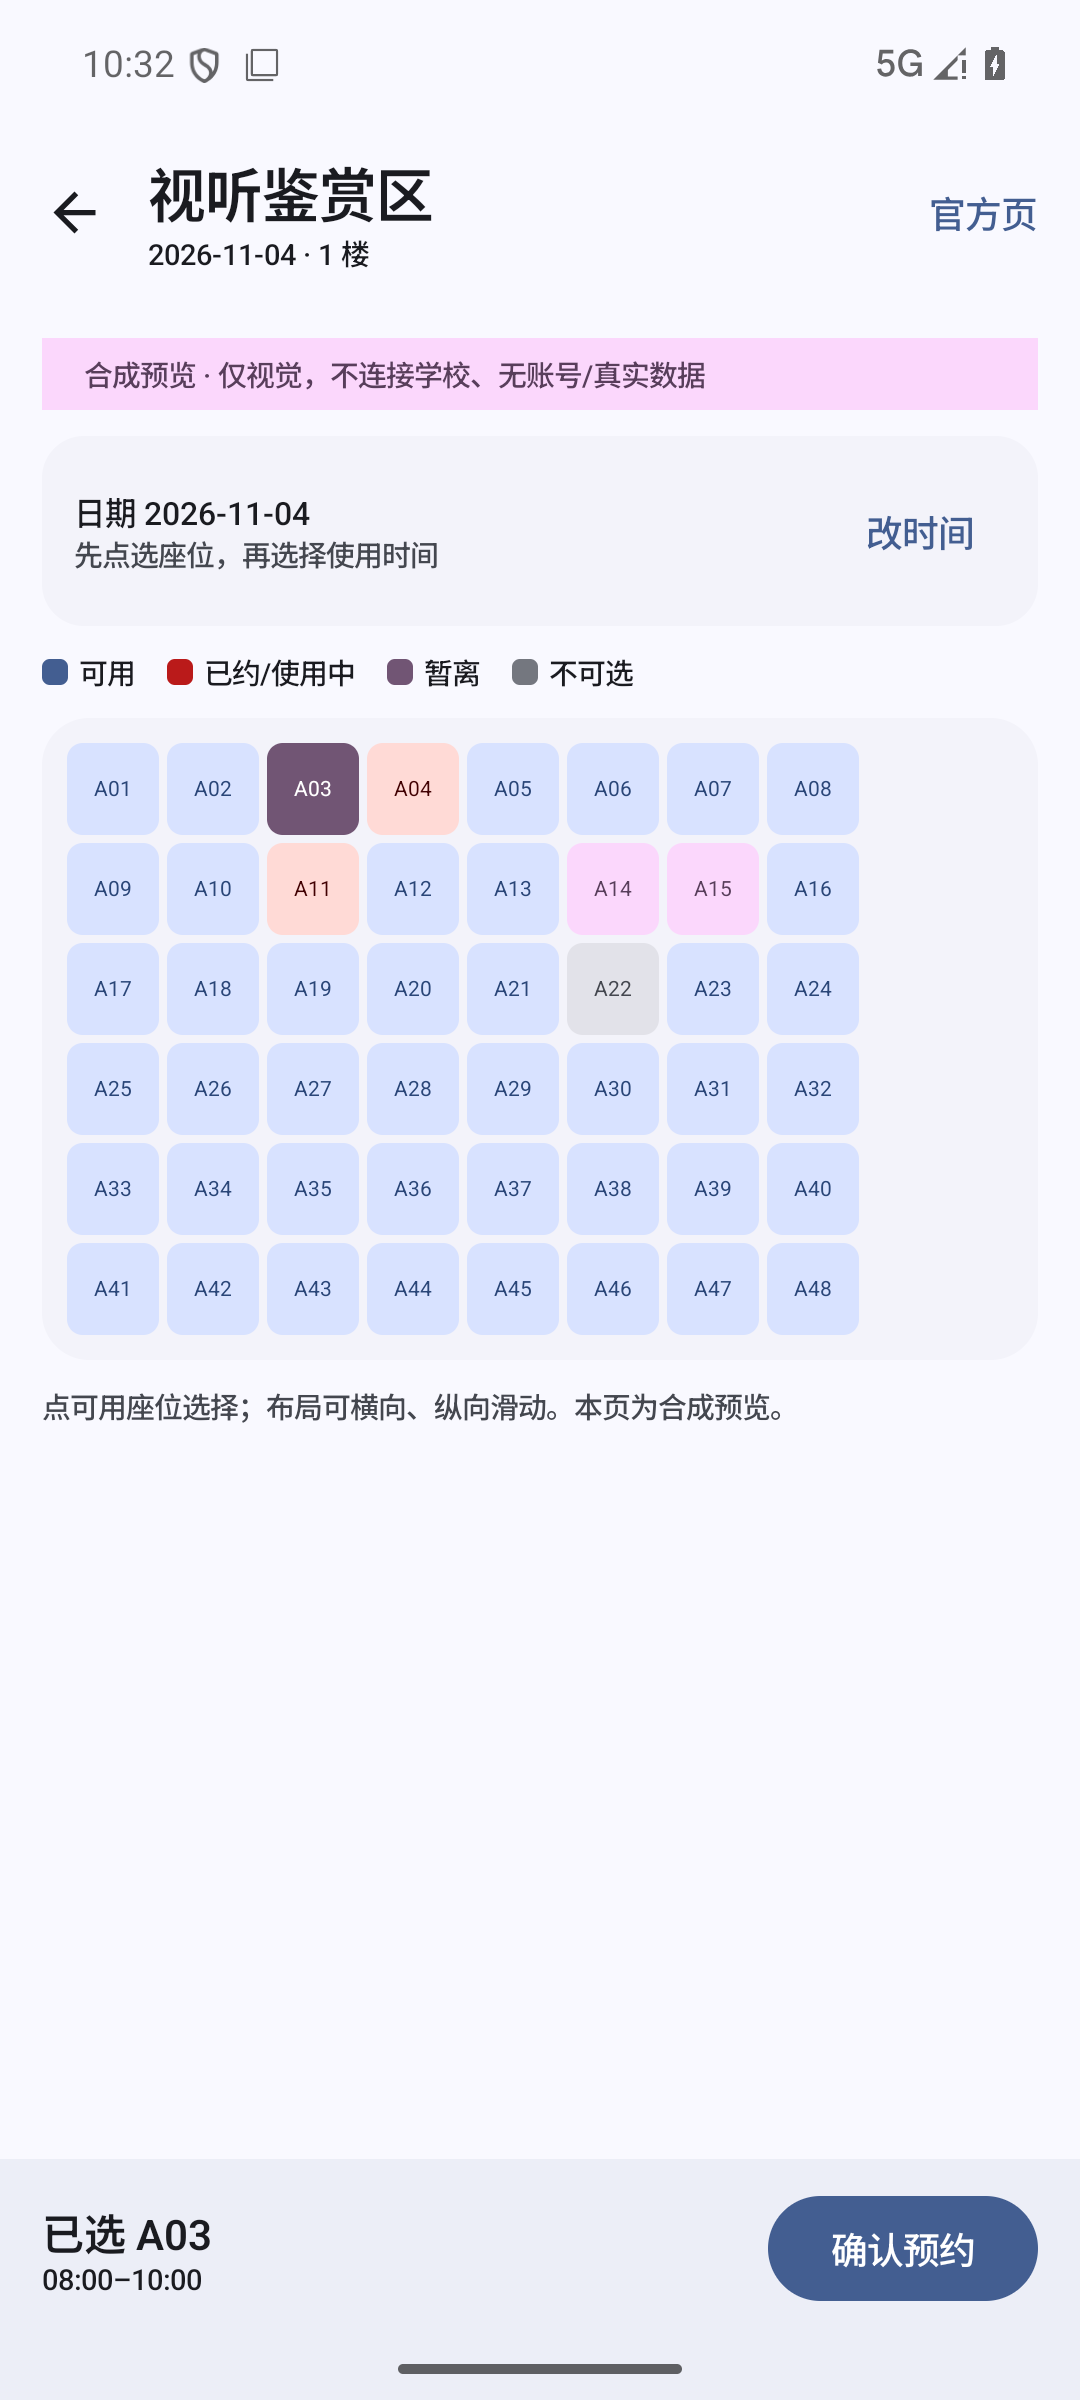
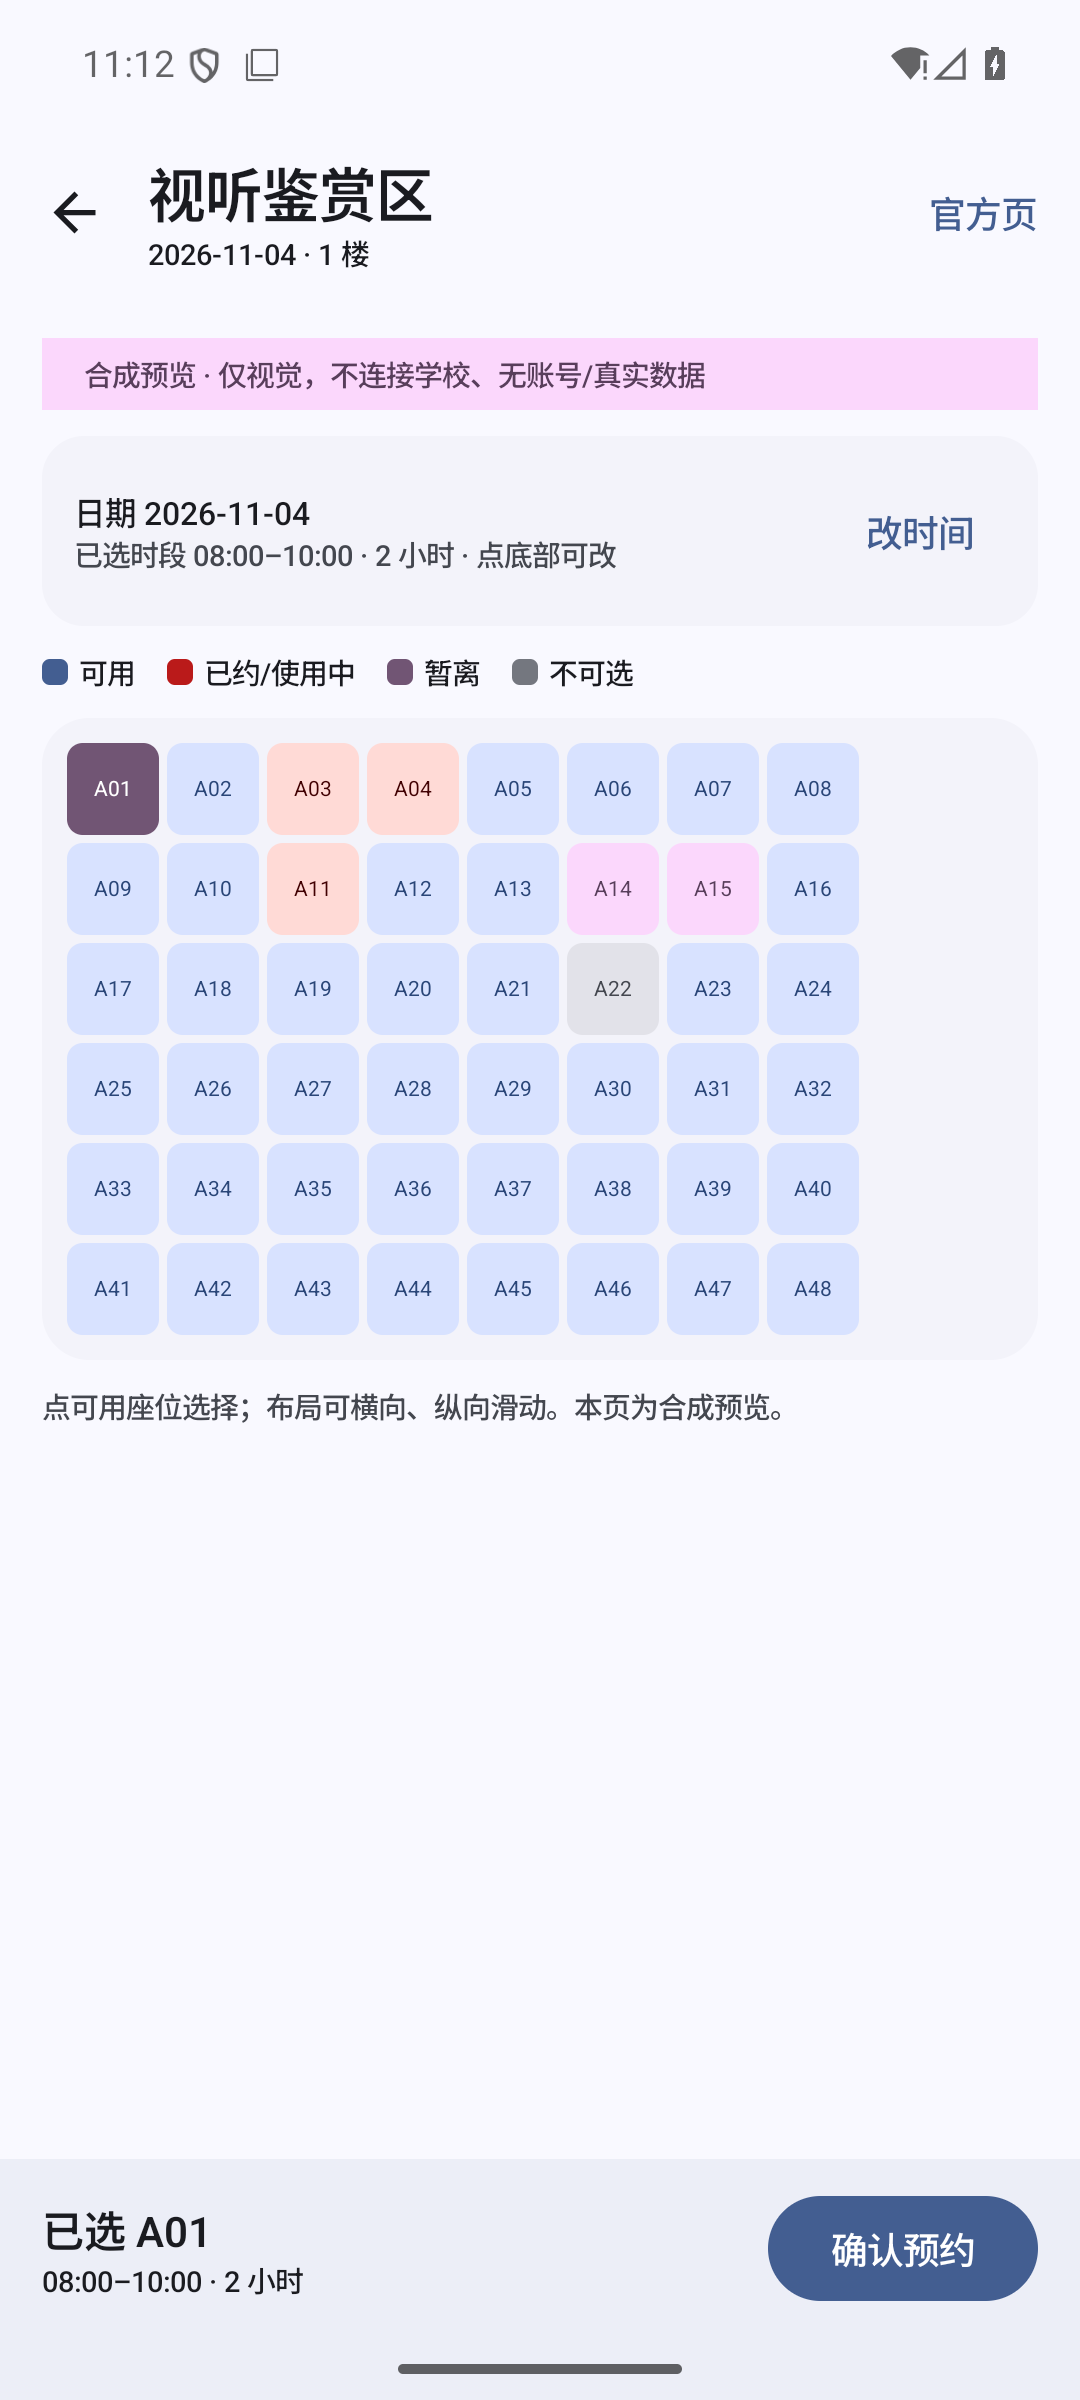
fix(library): keep preview and reservation selection consistent

diff --git a/feature/library/src/debug/kotlin/com/upcpocket/app/ui/library/LibrarySeatPreviewPage.kt b/feature/library/src/debug/kotlin/com/upcpocket/app/ui/library/LibrarySeatPreviewPage.kt
@@ -48,6 +48,7 @@ import com.upcpocket.app.data.library.LibraryFloor
 import com.upcpocket.app.data.library.LibraryRoom
 import com.upcpocket.app.data.library.LibrarySeat
 import com.upcpocket.app.data.library.LibrarySeatLayout
+import com.upcpocket.app.data.library.LibraryTimeOption
 
 @Composable
 fun LibrarySeatPreviewPage(page: String) {
@@ -209,10 +210,32 @@ private fun LibAreaPreview() {
     }
 }
 
+private fun previewSeatState(): LibrarySeatViewModel.UiState {
+    val layout = previewLayout()
+    val seat = layout.seats.first { it.name == "A01" }
+    return LibrarySeatViewModel.UiState(
+        filters = previewFilters,
+        building = previewFilters.buildings.first(),
+        date = "2026-11-04",
+        rooms = previewRooms,
+        floors = listOf(LibraryFloor(1, "1 楼"), LibraryFloor(2, "2 楼")),
+        room = previewRooms.first(),
+        layout = layout,
+        seat = seat,
+        startTimes = listOf(LibraryTimeOption("480", "08:00")),
+        endTimes = listOf(LibraryTimeOption("600", "10:00")),
+        start = LibraryTimeOption("480", "08:00"),
+        end = LibraryTimeOption("600", "10:00"),
+    )
+}
+
 @OptIn(ExperimentalMaterial3Api::class)
 @Composable
 private fun LibSeatPreview(showTime: Boolean) {
-    val layout = previewLayout()
+    val state = previewSeatState()
+    val seat = state.seat
+    val start = state.start
+    val end = state.end
     Scaffold(
         topBar = {
             TopAppBar(
@@ -238,10 +261,14 @@ private fun LibSeatPreview(showTime: Boolean) {
                     horizontalArrangement = Arrangement.spacedBy(12.dp),
                 ) {
                     Column(Modifier.weight(1f)) {
-                        Text("已选 A03", fontWeight = FontWeight.SemiBold)
-                        Text("08:00–10:00", style = MaterialTheme.typography.labelSmall)
+                        Text("已选 ${seat?.name.orEmpty()}", fontWeight = FontWeight.SemiBold)
+                        Text(
+                            "${start?.value.orEmpty()}–${end?.value.orEmpty()} · " +
+                                (durationText(start, end) ?: "时长未知"),
+                            style = MaterialTheme.typography.labelSmall,
+                        )
                     }
-                    Button(onClick = {}) { Text("确认预约") }
+                    Button(onClick = {}, enabled = state.canConfirmReservation()) { Text("确认预约") }
                 }
             }
         },
@@ -263,8 +290,8 @@ private fun LibSeatPreview(showTime: Boolean) {
                     Column(Modifier.weight(1f)) {
                         Text("日期 2026-11-04", style = MaterialTheme.typography.labelMedium)
                         Text(
-                            if (showTime) "已选时段 08:00–10:00 · 点底部可改"
-                            else "先点选座位，再选择使用时间",
+                            "已选时段 ${start?.value.orEmpty()}–${end?.value.orEmpty()} · " +
+                                (durationText(start, end) ?: "时长未知") + " · 点底部可改",
                             style = MaterialTheme.typography.labelSmall,
                             color = MaterialTheme.colorScheme.onSurfaceVariant,
                         )
@@ -275,13 +302,13 @@ private fun LibSeatPreview(showTime: Boolean) {
             item { SeatLegend() }
             item {
                 SeatMap(
-                    layout = layout,
-                    selectedId = "s3",
+                    layout = state.layout ?: previewLayout(),
+                    selectedId = seat?.id,
                     onSelect = {},
                 )
             }
             if (showTime) {
-                item { PreviewTimeChips(title = "选择使用时间") }
+                item { PreviewTimeChips(title = "选择使用时间", state = state) }
             }
             item {
                 Text(
@@ -402,7 +429,7 @@ private fun ChaoxingSeatPreview(showTime: Boolean) {
                 )
             }
             if (showTime) {
-                item { PreviewTimeChips(title = "选择查看时段") }
+                item { PreviewChaoxingTimeChips(title = "选择查看时段") }
             }
             item {
                 Text(
@@ -417,7 +444,9 @@ private fun ChaoxingSeatPreview(showTime: Boolean) {
 
 @OptIn(ExperimentalLayoutApi::class)
 @Composable
-private fun PreviewTimeChips(title: String) {
+private fun PreviewChaoxingTimeChips(title: String) {
+    val start = "08:00"
+    val end = "10:00"
     Column(
         Modifier.fillMaxWidth().background(
             MaterialTheme.colorScheme.surfaceContainerLow,
@@ -427,25 +456,72 @@ private fun PreviewTimeChips(title: String) {
     ) {
         Text(title, style = MaterialTheme.typography.titleSmall, fontWeight = FontWeight.SemiBold)
         Text("开始时间", style = MaterialTheme.typography.labelMedium)
-        Row(horizontalArrangement = Arrangement.spacedBy(8.dp)) {
+        FlowRow(horizontalArrangement = Arrangement.spacedBy(8.dp)) {
+            listOf("08:00", "09:00", "10:00").forEach { value ->
+                FilterChip(selected = value == start, onClick = {}, label = { Text(value) })
+            }
+        }
+        Text("结束时间", style = MaterialTheme.typography.labelMedium)
+        FlowRow(horizontalArrangement = Arrangement.spacedBy(8.dp)) {
+            listOf("09:00", "10:00", "11:00").forEach { value ->
+                FilterChip(selected = value == end, onClick = {}, label = { Text(value) })
+            }
+        }
+        Text(
+            "已选 $start–$end · 2 小时",
+            style = MaterialTheme.typography.bodySmall,
+            color = MaterialTheme.colorScheme.primary,
+        )
+        Text(
+            "这里只读查看所选区间；真实预约仍在官方页完成。",
+            style = MaterialTheme.typography.labelSmall,
+            color = MaterialTheme.colorScheme.onSurfaceVariant,
+        )
+    }
+}
+
+@OptIn(ExperimentalLayoutApi::class)
+@Composable
+private fun PreviewTimeChips(title: String, state: LibrarySeatViewModel.UiState) {
+    val start = state.start?.value.orEmpty()
+    val end = state.end?.value.orEmpty()
+    Column(
+        Modifier.fillMaxWidth().background(
+            MaterialTheme.colorScheme.surfaceContainerLow,
+            RoundedCornerShape(16.dp),
+        ).padding(12.dp),
+        verticalArrangement = Arrangement.spacedBy(8.dp),
+    ) {
+        Text(title, style = MaterialTheme.typography.titleSmall, fontWeight = FontWeight.SemiBold)
+        Text("开始时间", style = MaterialTheme.typography.labelMedium)
+        FlowRow(horizontalArrangement = Arrangement.spacedBy(8.dp)) {
             listOf("08:00", "09:00", "10:00").forEach { value ->
                 FilterChip(
-                    selected = value == "08:00",
+                    selected = value == start,
                     onClick = {},
                     label = { Text(value) },
                 )
             }
         }
         Text("结束时间", style = MaterialTheme.typography.labelMedium)
-        Row(horizontalArrangement = Arrangement.spacedBy(8.dp)) {
+        FlowRow(horizontalArrangement = Arrangement.spacedBy(8.dp)) {
             listOf("09:00", "10:00", "11:00").forEach { value ->
-                FilterChip(selected = value == "10:00", onClick = {}, label = { Text(value) })
+                FilterChip(
+                    selected = value == end,
+                    onClick = {},
+                    label = { Text(value) },
+                )
             }
         }
         Text(
-            "已选 08:00–10:00 · 2 小时",
+            "已选 $start–$end" + (durationText(state.start, state.end)?.let { " · $it" } ?: ""),
             style = MaterialTheme.typography.bodySmall,
             color = MaterialTheme.colorScheme.primary,
+        )
+        Text(
+            "确认时会使用同一组开始/结束选项；本页为合成预览。",
+            style = MaterialTheme.typography.labelSmall,
+            color = MaterialTheme.colorScheme.onSurfaceVariant,
         )
     }
 }

diff --git a/feature/library/src/main/kotlin/com/upcpocket/app/ui/library/LibrarySeatScreen.kt b/feature/library/src/main/kotlin/com/upcpocket/app/ui/library/LibrarySeatScreen.kt
@@ -587,7 +587,11 @@ private fun LibrarySeatDetailPage(
                                 else -> vm.requestReservation()
                             }
                         },
-                        enabled = seat != null && !state.loading,
+                        enabled = when {
+                            seat == null -> false
+                            state.start == null || state.end == null -> seat.selectable && !state.loading
+                            else -> state.canConfirmReservation()
+                        },
                     ) {
                         Text(
                             when {
@@ -773,7 +777,7 @@ private fun LibrarySeatDetailPage(
                 )
             },
             confirmButton = {
-                TextButton(enabled = !state.loading, onClick = vm::confirmReservation) {
+                TextButton(enabled = state.canConfirmReservation(), onClick = vm::confirmReservation) {
                     Text("确认提交")
                 }
             },
@@ -855,6 +859,17 @@ internal fun LibrarySeatViewModel.UiState.afterCloseRoom(): LibrarySeatViewModel
         showConfirm = false,
         error = null,
     )
+
+internal fun LibrarySeatViewModel.UiState.canConfirmReservation(): Boolean {
+    val selectedSeat = seat ?: return false
+    val selectedStart = start ?: return false
+    val selectedEnd = end ?: return false
+    val currentLayout = layout ?: return false
+    if (loading || !selectedSeat.selectable) return false
+    if (currentLayout.seats.none { it.id == selectedSeat.id && it.selectable }) return false
+    if (endTimes.none { it.id == selectedEnd.id }) return false
+    return timeDurationMinutes(selectedStart, selectedEnd) != null
+}
 
 internal fun timeDurationMinutes(start: LibraryTimeOption?, end: LibraryTimeOption?): Int? {
     if (start == null || end == null) return null
@@ -1373,10 +1388,10 @@ internal class LibrarySeatViewModel(
     }
 
     fun requestReservation() {
-        val start = state.start ?: return
-        val end = state.end ?: return
-        if (state.endTimes.none { it.id == end.id }) return
-        if (timeDurationMinutes(start, end) == null) return
+        if (!state.canConfirmReservation()) {
+            state = state.copy(error = "所选座位或时段已不可用，请重新选择")
+            return
+        }
         state = state.copy(showConfirm = true)
     }
 
@@ -1385,6 +1400,10 @@ internal class LibrarySeatViewModel(
     }
 
     fun confirmReservation() {
+        if (!state.canConfirmReservation()) {
+            state = state.copy(showConfirm = false, error = "所选座位或时段已不可用，请重新选择")
+            return
+        }
         val date = state.date ?: return
         val seat = state.seat ?: return
         val start = state.start ?: return

diff --git a/feature/library/src/test/kotlin/com/upcpocket/app/ui/library/LibrarySeatSelectionValidityTest.kt b/feature/library/src/test/kotlin/com/upcpocket/app/ui/library/LibrarySeatSelectionValidityTest.kt
@@ -1,0 +1,72 @@
+package com.upcpocket.app.ui.library
+
+import com.upcpocket.app.data.library.LibraryBuilding
+import com.upcpocket.app.data.library.LibraryFilters
+import com.upcpocket.app.data.library.LibraryRoom
+import com.upcpocket.app.data.library.LibrarySeat
+import com.upcpocket.app.data.library.LibrarySeatLayout
+import com.upcpocket.app.data.library.LibraryTimeOption
+import org.junit.Assert.assertFalse
+import org.junit.Assert.assertTrue
+import org.junit.Test
+
+class LibrarySeatSelectionValidityTest {
+
+    private val start = LibraryTimeOption("480", "08:00")
+    private val end = LibraryTimeOption("600", "10:00")
+    private val room = LibraryRoom("r1", "视听鉴赏区", 1, "1 楼", totalSeats = 10, freeSeats = 5)
+
+    private fun seat(status: String, selectable: Boolean = true) = LibrarySeat(
+        id = "s1",
+        name = "A01",
+        row = 1,
+        col = 1,
+        type = "seat",
+        enabled = selectable,
+        status = status,
+        localOnly = false,
+    )
+
+    private fun state(
+        seat: LibrarySeat,
+        layoutSeat: LibrarySeat = seat,
+        start: LibraryTimeOption? = this.start,
+        end: LibraryTimeOption? = this.end,
+    ) = LibrarySeatViewModel.UiState(
+        filters = LibraryFilters(listOf("2026-11-04"), listOf(LibraryBuilding("1", "东馆"))),
+        date = "2026-11-04",
+        rooms = listOf(room),
+        room = room,
+        layout = LibrarySeatLayout(1, 1, listOf(layoutSeat)),
+        seat = seat,
+        startTimes = listOf(start ?: this.start),
+        endTimes = if (start != null && end != null) listOf(end) else emptyList(),
+        start = start,
+        end = end,
+    )
+
+    @Test
+    fun `available seat with server end can confirm`() {
+        assertTrue(state(seat("FREE")).canConfirmReservation())
+    }
+
+    @Test
+    fun `used or disabled seat cannot confirm even if stale state says selected`() {
+        assertFalse(state(seat("IN_USE", selectable = false)).canConfirmReservation())
+        assertFalse(
+            state(
+                seat = seat("FREE"),
+                layoutSeat = seat("IN_USE", selectable = false),
+            ).canConfirmReservation(),
+        )
+    }
+
+    @Test
+    fun `end must belong to the current server options and be longer than start`() {
+        val wrongEnd = LibraryTimeOption("999", "23:00")
+        assertFalse(
+            state(seat("FREE"), end = wrongEnd).copy(endTimes = listOf(end)).canConfirmReservation(),
+        )
+        assertFalse(state(seat("FREE"), end = start).canConfirmReservation())
+    }
+}

diff --git a/docs/CHANGELOG.md b/docs/CHANGELOG.md
@@ -5,9 +5,10 @@
 - 用户反馈“预约时间好像只能约一个小时”；排查不是学校接口被写死，而是 libseat 在拿到 `endTimes` 后自动把 `ends.firstOrNull()` 设为结束时间，首个选项通常是 1 小时；Chaoxing 只读查看则固定 `+60` 分钟，且只显示开始时间。
 - libseat：开始时间变化后保留学校返回的全部结束选项，不再自动选第一个；未选结束不能确认；结束时间变化立即更新底栏、时长和确认参数；开始时间变化后清除旧结束并重新请求有效结束；切换座位/日期/楼层/区域清除旧时段。学校 `maxHour` 仅作为真实提示展示，不用它臆造上限，最终以 `endTimesForSeat` 返回为准。
 - Chaoxing：只读查看不再固定 1 小时；按 `timeUnit` 生成开始/结束选项，结束不超过开放结束时间；开始变化重取可用结束和已用座位；结束变化按所选区间重取已用座位；仍只打开官方页，不新增原生写协议。
-- 新增回归：30/60/90/120 分钟与数小时结束选项、超过 1 小时的学校选项、结束到关门时间、无效步长、切换座位/日期清空结束、maxHour 只展示不截断、Chaoxing 开始/结束选项和时长格式。
-- 验证：`feature:library` **96 tests（1 skipped，真实座位回放）**、`app` 32 tests、`core:upc-auth` 18 tests；`checkModuleBoundaries`、`:app:assembleDebug`、`:app:assembleDebugAndroidTest` 通过；library lint 无问题、app lint 0 errors/2 既有 warnings。
[1 lines of base64/hex data omitted]
+- 新增回归：30/60/90/120 分钟与数小时结束选项、超过 1 小时的学校选项、结束到关门时间、无效步长、切换座位/日期清空结束、maxHour 只展示不截断、Chaoxing 开始/结束选项和时长格式；不可用/暂离座位即使被旧状态选中也不能确认，结束必须属于当前学校返回列表。
+- 预览与生产共用有效性规则：Debug 预览使用同一个 `UiState` 与 `canConfirmReservation()`，选中 A01 可用座位和同一组 08:00–10:00；不再出现 A03 暂离却被选/可确认，或开始结束高亮与摘要不一致。
+- 验证：`feature:library` **99 tests（1 skipped，真实座位回放）**、`app` 32 tests、`core:upc-auth` 18 tests；`checkModuleBoundaries`、`:app:assembleDebug`、`:app:assembleDebugAndroidTest` 通过；library lint 无问题、app lint 0 errors/2 既有 warnings。
[1 lines of base64/hex data omitted]
 
 ## M5.3 · 图书馆三个座位页重做（开发分支，未发布）
 
